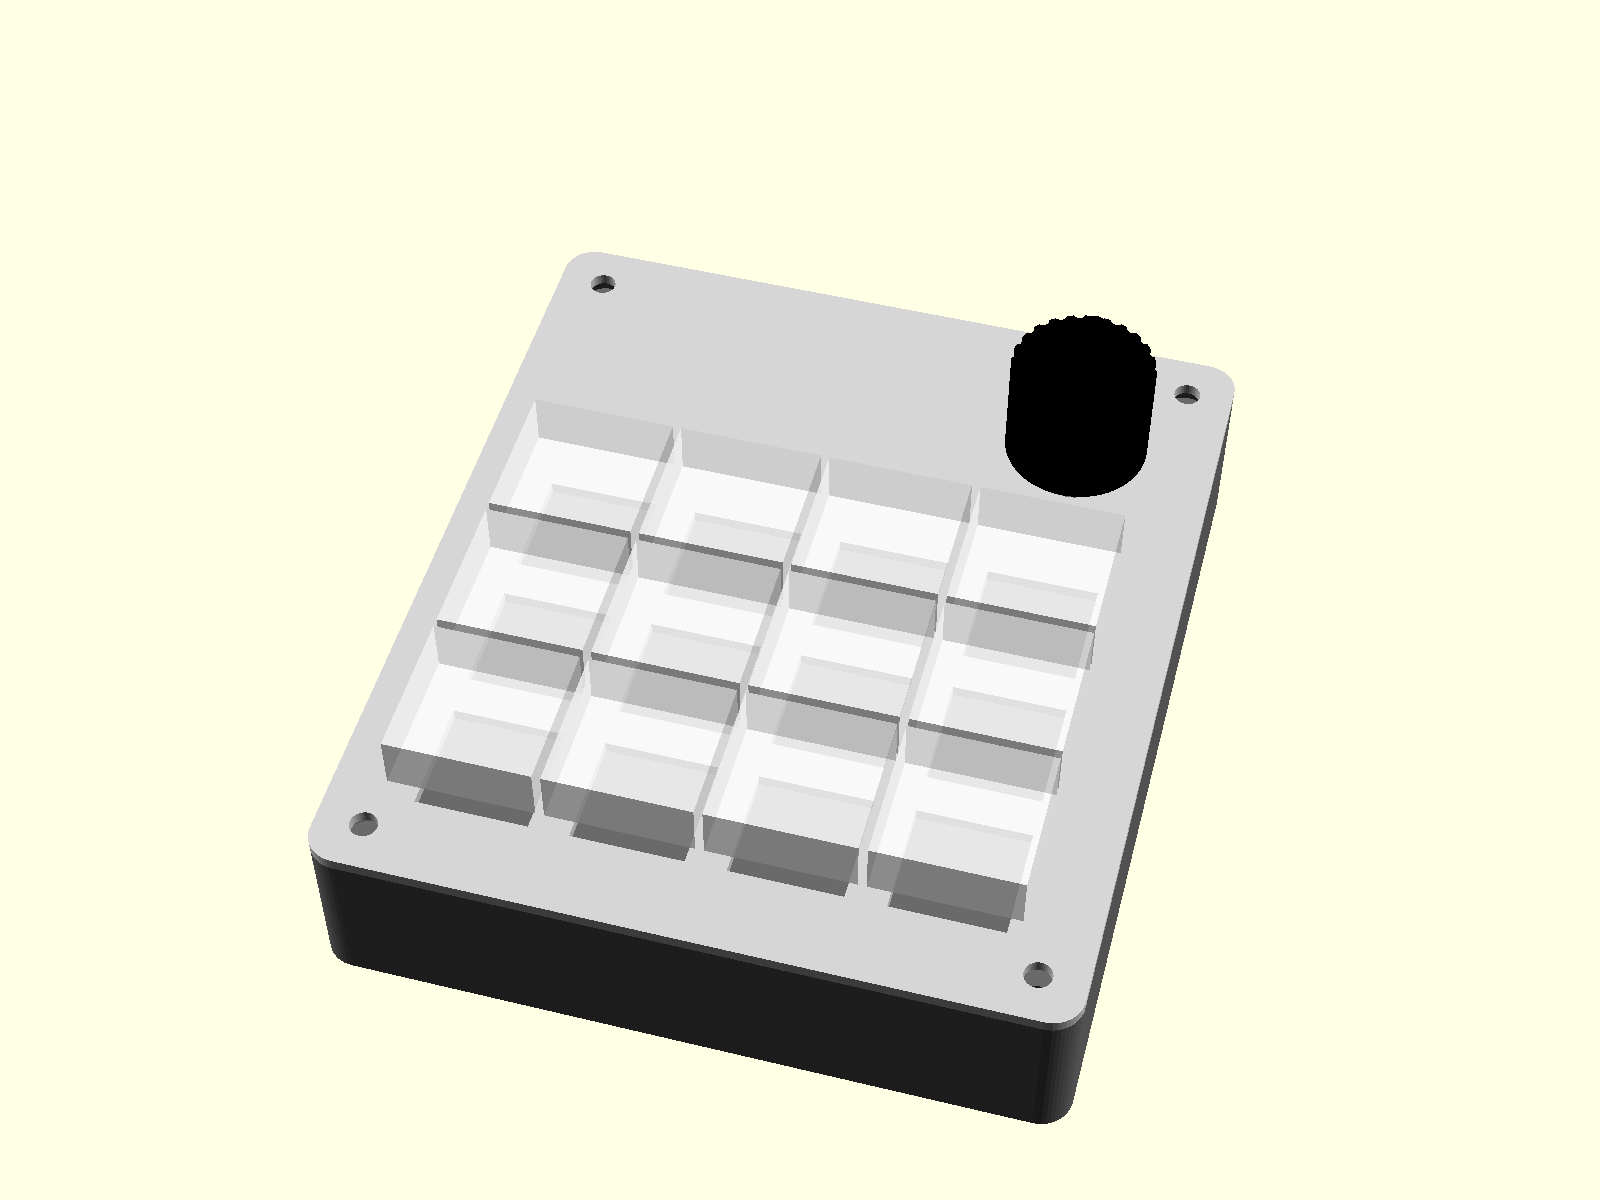
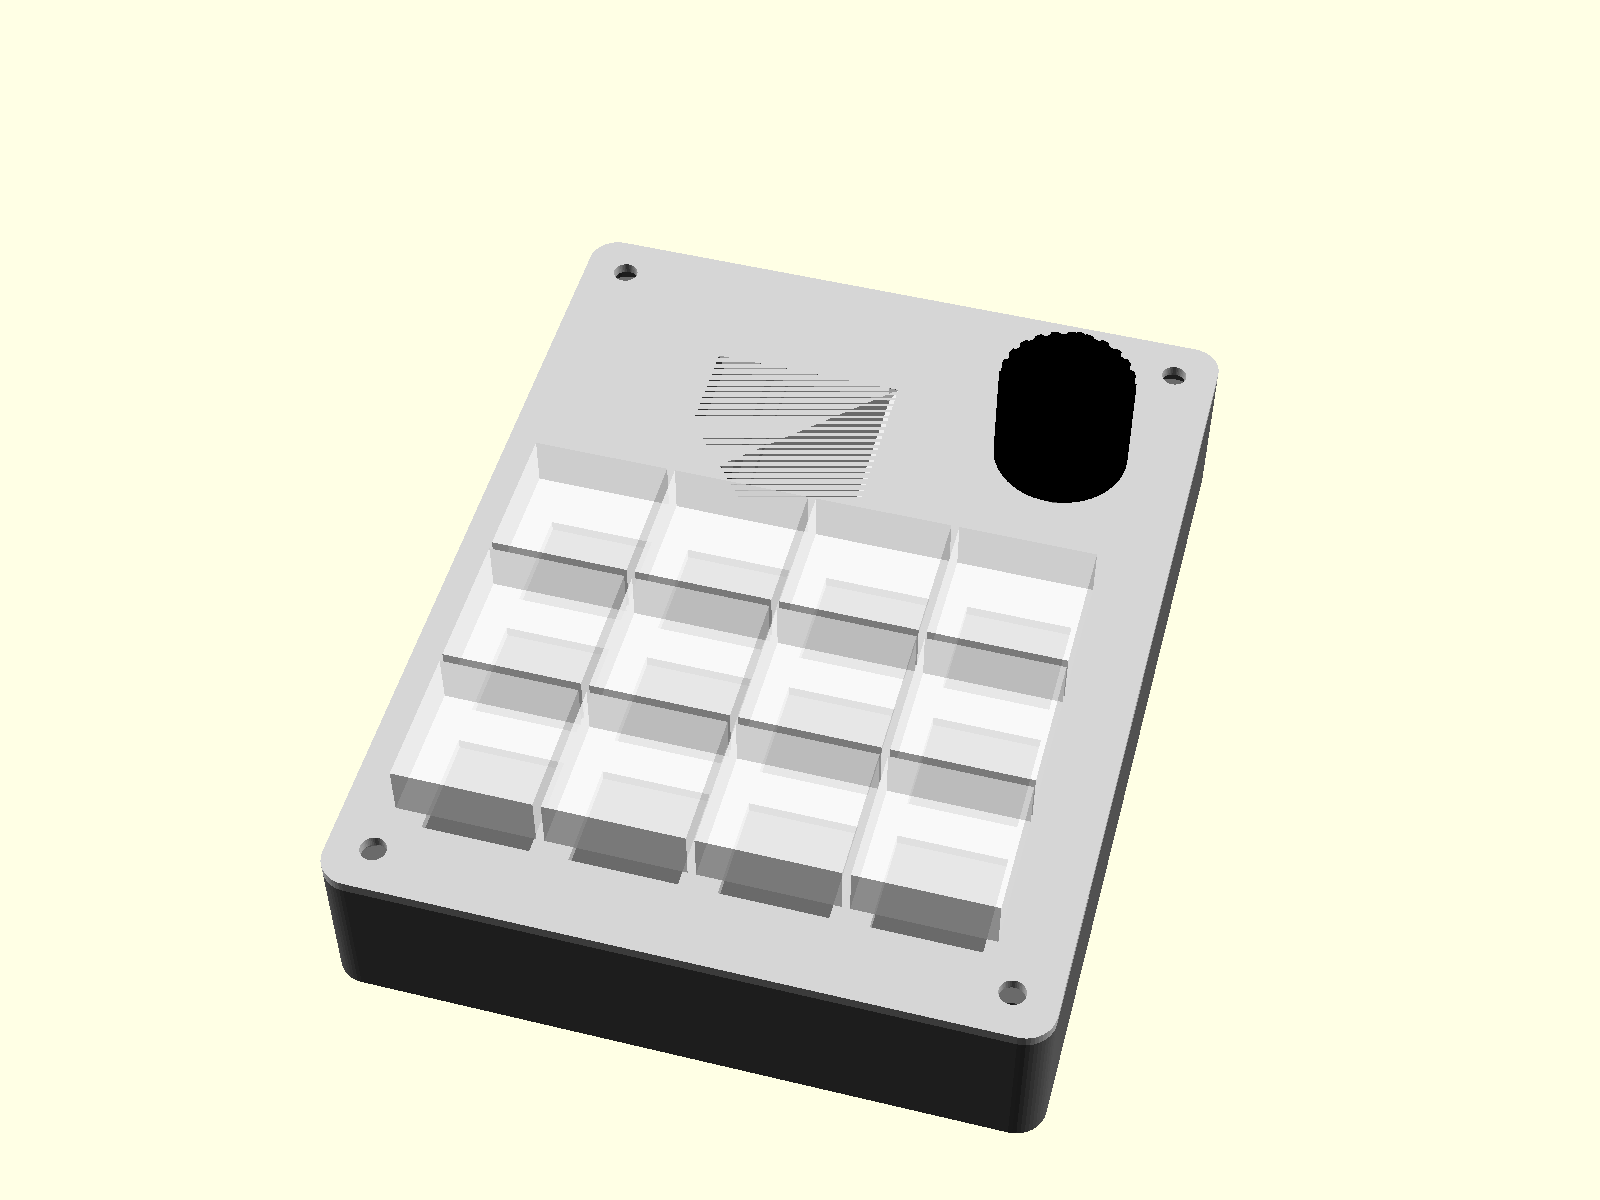
Macropad case: default GMT130 layout to pins toward the keys
Claude-Session: https://claude.ai/code/session_01PQLPSXuur4jpuNXkKKMp5c

Changed region(s): [[0.1875, 0.185, 0.7812, 0.9558], [0.2188, 0.8017, 0.5938, 0.925]]

diff --git a/macropad/README.md b/macropad/README.md
@@ -246,8 +246,8 @@ tela**. Imprima o `macropad_bottom.stl` e o `macropad_plate.stl` **da mesma past
 
 | Pasta | Tela | Tamanho da caixa | `LCD_ROTATION` no `config.h` |
 |---|---|---|---|
-| `stl/gmt130_pinos_esquerda/` *(recomendada)* | GMT130 1.3", pinos para a esquerda | 92 x 105 x 22 mm | 1 ou 3 (teste qual deixa a imagem de pé) |
-| `stl/gmt130_pinos_baixo/` | GMT130 1.3", pinos para baixo (para as teclas) | 92 x 117 x 22 mm | 0 (como no teste) |
+| `stl/gmt130_pinos_esquerda/` *(mais compacta)* | GMT130 1.3", pinos para a esquerda | 92 x 105 x 22 mm | 1 ou 3 (teste qual deixa a imagem de pé) |
+| `stl/gmt130_pinos_baixo/` *(padrão)* | GMT130 1.3", pinos para baixo (para as teclas) | 92 x 117 x 22 mm | 0 (como no teste) |
 | `stl/gmt147/` | GMT147SPI 1.47" | 92 x 103 x 22 mm | 1 |
 
 O knob (`stl/macropad_knob.stl`) é igual para todas.
@@ -263,7 +263,7 @@ Camada de 0.2 mm em PLA ou PETG funciona bem.
 **Mudar as opções** (abra o `.scad` no OpenSCAD e use o *Customizer*, ou edite no topo):
 
 - `screen = "lcd130"` (padrão), `"lcd147"`, `"oled091"` ou `"oled096"`
-- `lcd130_pins = "left"` ou `"bottom"`: lado dos pinos do GMT130
+- `lcd130_pins = "bottom"` (padrão) ou `"left"`: lado dos pinos do GMT130
 - `board = "pico2"` para a Raspberry Pi Pico 2 (furo micro-USB e berço maior)
 - `sw_cut = 14.1` se os switches entrarem muito justos
 - `post_hole = 4.2` para usar insertos térmicos M3
@@ -286,8 +286,8 @@ Camada de 0.2 mm em PLA ou PETG funciona bem.
 1. Encaixe os 12 switches no plate (de cima para baixo, até estalar).
 2. Prenda o encoder com a porca que vem com ele.
 3. Tire a película de proteção do LCD e encaixe-o embaixo do plate, com a tela
-   virada para a janela e os **furos de fixação nos pinos-guia**. No GMT130
-   (versão "pinos para a esquerda"), os pinos ficam do lado oposto ao encoder.
+   virada para a janela e os **furos de fixação nos pinos-guia**. No GMT130,
+   os pinos ficam virados para as teclas (versão padrão) ou para a esquerda.
    Prenda com uma gota de cola quente na ponta de cada pino-guia.
 4. Encaixe a placa no berço da caixa, com o USB virado para o furo de trás.
 5. Solde os fios conforme a tabela da seção 2.
